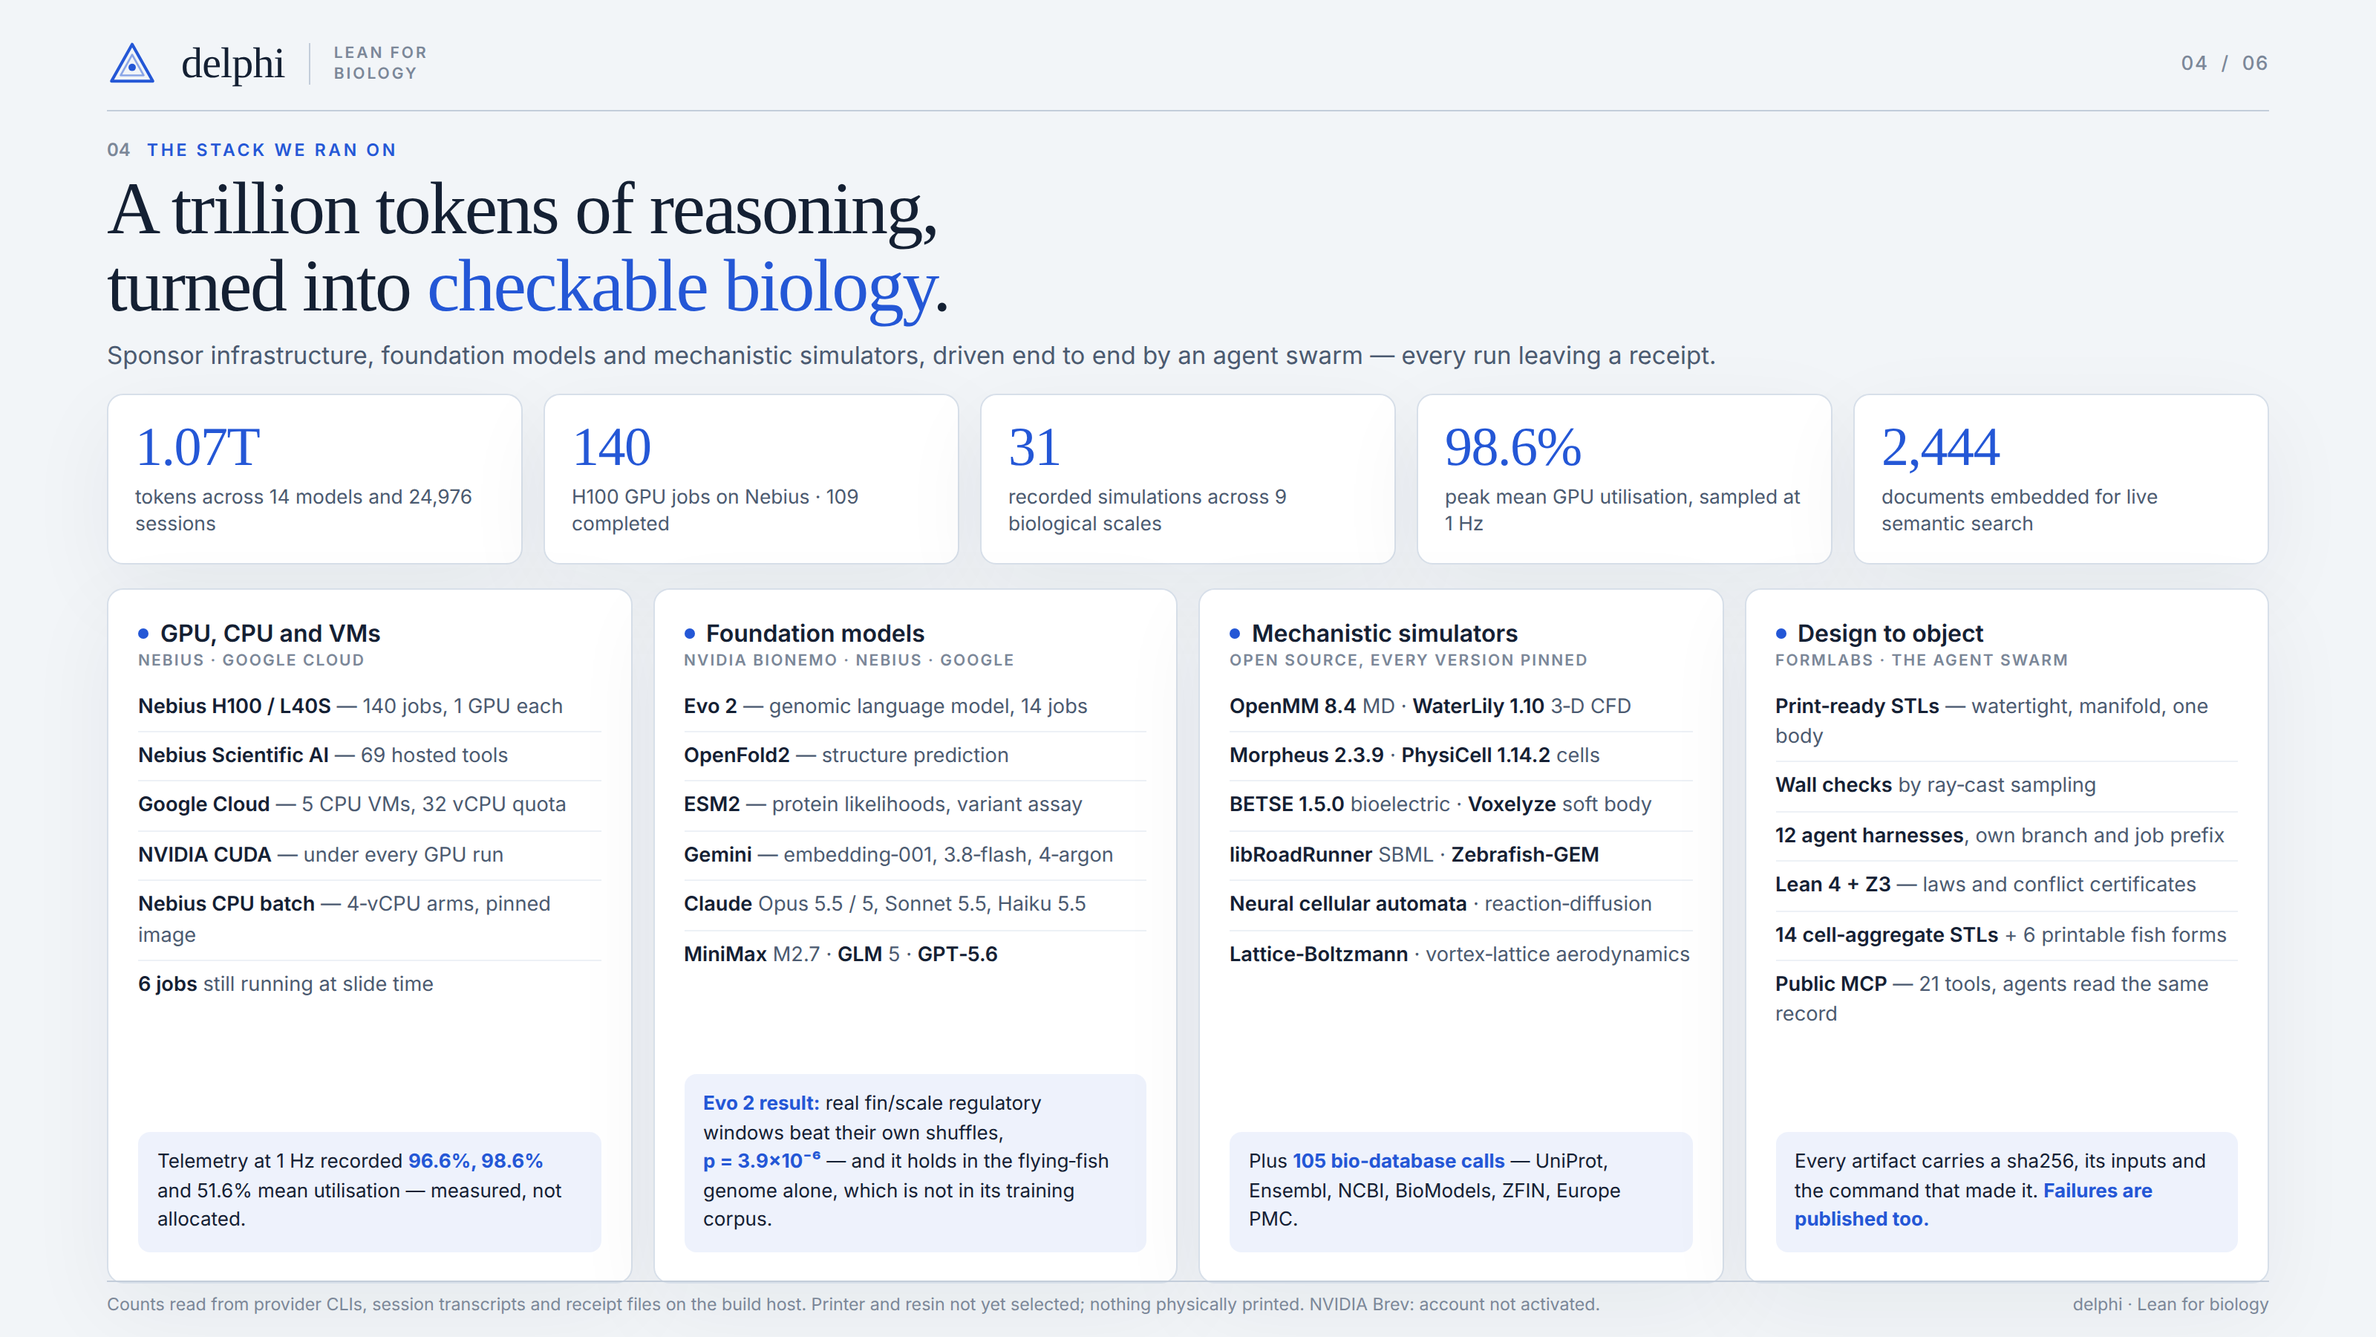
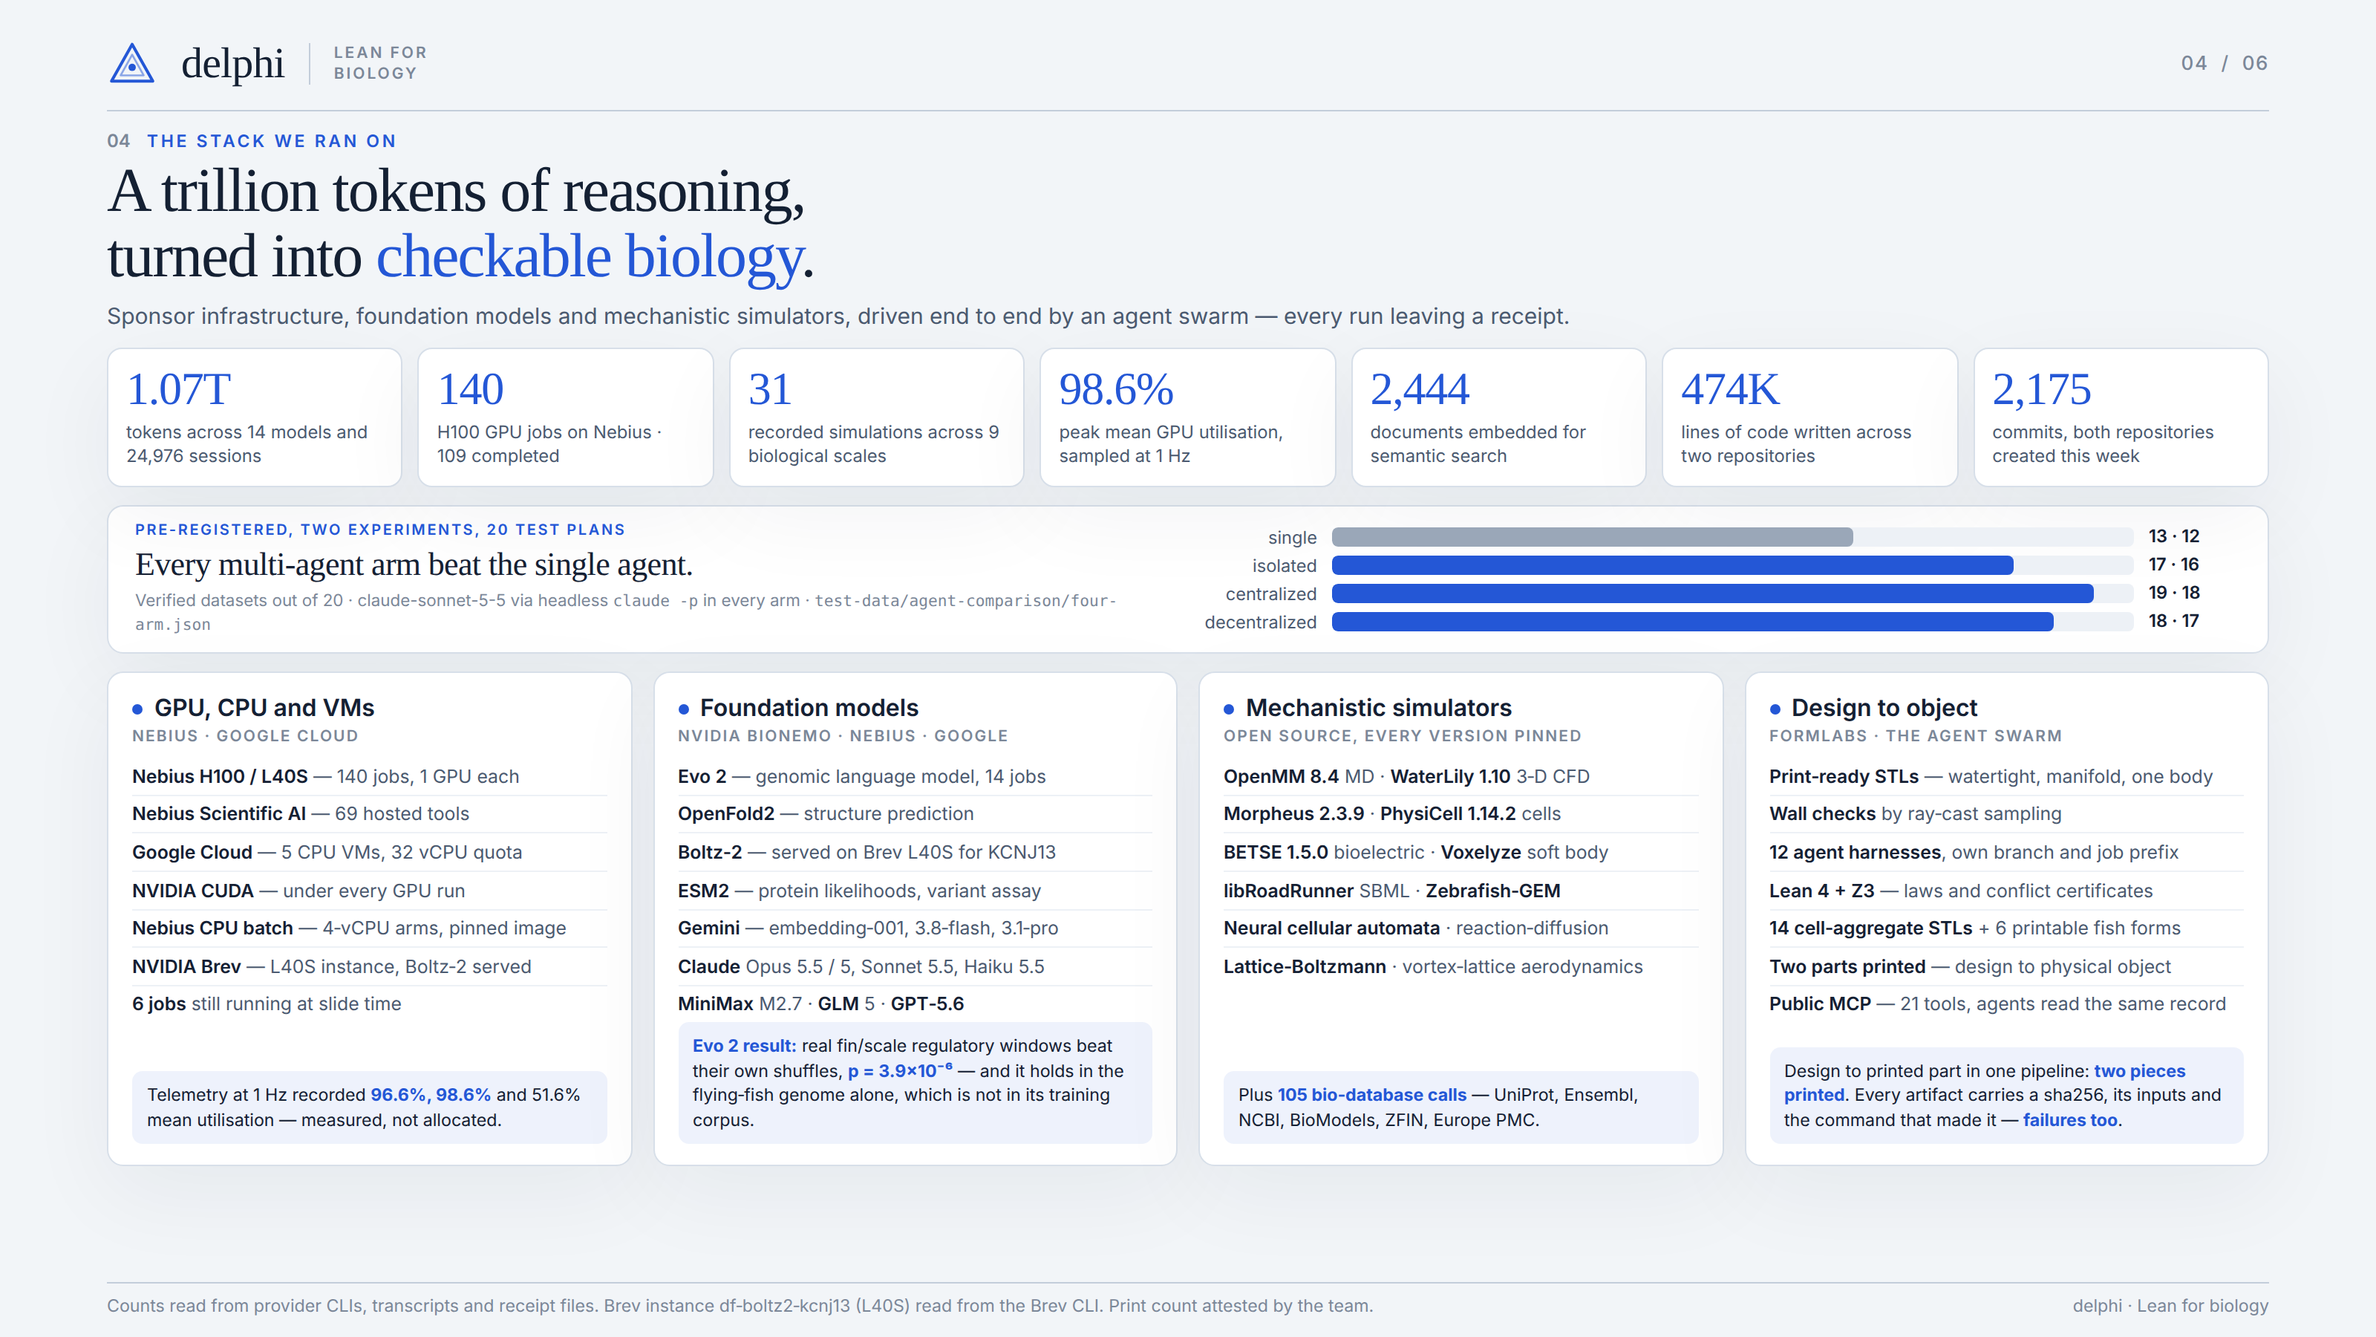
Slide 04: add the swarm-vs-single comparison, code and commit counts, and fix three claims
Adds the band the deck's own pre-registered experiment earns: every multi-agent
arm beat the single agent, 13/12 against 17-19/16-18 verified datasets out of 20,
with the honest rider that the three multi-agent arms are not distinguishable
from each other at n=20. Numbers from test-data/agent-comparison/four-arm.json.

Adds two hero figures: 474K lines of code (git log --all --numstat over source
extensions, 409,190 + 65,372) and 2,175 commits (1,714 + 461), both repositories
created this week.

Three corrections an evidence pass turned up, each of which I had wrong:
- NVIDIA Brev IS in use (RUNNING L40S instance df-boltz2-kcnj13), and Boltz-2 is
  served on it. The slide previously said the account was never activated.
- Two parts were physically printed. The slide previously said nothing was.
- gemini-4-argon has no receipt; the audit models were gemini-3.1-pro-preview and
  gemini-3-pro-image-preview, so the Gemini line now names what actually ran.

Boltz-2 is listed as served rather than as having produced a result, because no
output receipt was found for it.

Rendered and checked at 1600x900: no overflow in either axis.

diff --git a/studio/deck/slide-04-stack.html b/studio/deck/slide-04-stack.html
@@ -12,28 +12,41 @@ font-family:var(--sans);color:var(--ink);margin:auto}
 .div{width:1px;height:28px;background:var(--rule)}
 .tag{font:600 10.5px/1.3 var(--sans);letter-spacing:.14em;color:var(--subtle);text-transform:uppercase}
 .pg{margin-left:auto;font:500 13px/1 var(--sans);color:var(--subtle);letter-spacing:.06em}
-.eyebrow{display:flex;gap:11px;align-items:baseline;margin:20px 0 6px}
+.eyebrow{display:flex;gap:11px;align-items:baseline;margin:14px 0 5px}
 .eyebrow b{font:600 12px/1 var(--sans);color:var(--subtle)}
 .eyebrow span{font:600 11.5px/1 var(--sans);letter-spacing:.16em;text-transform:uppercase;color:var(--blue)}
-h1{font:500 50px/1.05 var(--serif);letter-spacing:-.025em;max-width:30ch}
+h1{font:500 42px/1.05 var(--serif);letter-spacing:-.025em;max-width:30ch}
 h1 em{font-style:normal;color:var(--blue)}
-.sub{font-size:16.5px;color:var(--muted);margin:10px 0 16px;max-width:112ch}
-.hero{display:grid;grid-template-columns:repeat(5,1fr);gap:14px;margin-bottom:16px}
-.h{background:var(--white);border:1px solid var(--grid);border-radius:11px;padding:17px 18px;box-shadow:var(--shadow)}
-.h b{display:block;font:500 37px/1 var(--serif);color:var(--blue);letter-spacing:-.02em}
-.h i{display:block;font-style:normal;font-size:13.2px;color:var(--muted);margin-top:6px;line-height:1.38}
-.cols{display:grid;grid-template-columns:repeat(4,1fr);gap:14px;height:468px}
-.c{background:var(--white);border:1px solid var(--grid);border-radius:11px;padding:20px 20px;box-shadow:var(--shadow);min-width:0;display:flex;flex-direction:column}
+.sub{font-size:15px;color:var(--muted);margin:8px 0 12px;max-width:112ch}
+.hero{display:grid;grid-template-columns:repeat(7,1fr);gap:10px;margin-bottom:12px}
+.h{background:var(--white);border:1px solid var(--grid);border-radius:10px;padding:11px 12px;box-shadow:var(--shadow)}
+.h b{display:block;font:500 31px/1 var(--serif);color:var(--blue);letter-spacing:-.02em}
+.h i{display:block;font-style:normal;font-size:11.9px;color:var(--muted);margin-top:6px;line-height:1.38}
+.cols{display:grid;grid-template-columns:repeat(4,1fr);gap:14px;height:262px}
+.c{background:var(--white);border:1px solid var(--grid);border-radius:11px;padding:14px 16px;box-shadow:var(--shadow);min-width:0;display:flex;flex-direction:column}
 .c h2{font:600 16px/1.2 var(--sans);display:flex;align-items:center;gap:8px;margin-bottom:4px}
 .c h2 i{width:7px;height:7px;border-radius:50%;background:var(--blue);flex:0 0 7px;font-style:normal}
 .c .who{font:600 10.5px/1 var(--sans);letter-spacing:.1em;text-transform:uppercase;color:var(--subtle);margin-bottom:9px}
-.c li{list-style:none;font-size:13.6px;line-height:1.5;color:var(--muted);padding:6px 0;border-top:1px solid #EDF1F6}
+.c li{list-style:none;font-size:12.4px;line-height:1.42;color:var(--muted);padding:3.5px 0;border-top:1px solid #EDF1F6}
 .c li:first-of-type{border-top:0}
 .c li b{color:var(--ink);font-weight:600}
-.win{margin-top:auto;background:var(--blue-soft);border-radius:8px;padding:11px 13px;font-size:13px;line-height:1.5;color:var(--ink)}
+.win{margin-top:auto;background:var(--blue-soft);border-radius:7px;padding:8px 10px;font-size:11.6px;line-height:1.42;color:var(--ink)}
 .win b{color:var(--blue)}
-.foot{position:absolute;left:72px;right:72px;bottom:15px;display:flex;justify-content:space-between;
+.foot{position:absolute;left:72px;right:72px;bottom:14px;display:flex;justify-content:space-between;
 font-size:11.6px;color:var(--subtle);border-top:1px solid var(--rule);padding-top:8px}
+
+.band{display:grid;grid-template-columns:minmax(0,1fr) minmax(0,1.05fr);gap:24px;align-items:center;
+background:var(--white);border:1px solid var(--grid);border-radius:11px;padding:11px 18px;margin-bottom:12px;box-shadow:var(--shadow)}
+.eyebrow2{display:block;font:600 10px/1 var(--sans);letter-spacing:.13em;text-transform:uppercase;color:var(--blue);margin-bottom:5px}
+.bl b{display:block;font:500 22px/1.15 var(--serif);letter-spacing:-.015em;margin-bottom:5px}
+.bn{display:block;font-size:11.2px;color:var(--subtle);line-height:1.4}
+.bn code{font-size:10.6px}
+.bars{display:flex;flex-direction:column;gap:5px}
+.bar{display:grid;grid-template-columns:92px 1fr 62px;align-items:center;gap:10px}
+.bk{font-size:11.8px;color:var(--muted);text-align:right}
+.track{height:13px;background:#EDF1F6;border-radius:4px;overflow:hidden}
+.track i{display:block;height:100%;background:var(--blue);border-radius:4px}
+.bv{font:600 11.8px/1 var(--sans);color:var(--ink)}
 </style></head><body><div class="slide">
  <div class="top">
   <svg class="mark" viewBox="0 0 44 44"><polygon points="22,5 40,37 4,37" fill="none" stroke="#2457D6" stroke-width="2.6" stroke-linejoin="round"/><polygon points="22,14 32,32 12,32" fill="none" stroke="#2457D6" stroke-width="1.7" stroke-linejoin="round" opacity=".5"/><circle cx="22" cy="25" r="3.2" fill="#2457D6"/></svg>
@@ -48,9 +61,23 @@ font-size:11.6px;color:var(--subtle);border-top:1px solid var(--rule);padding-to
   <div class="h"><b>140</b><i>H100 GPU jobs on Nebius · 109 completed</i></div>
   <div class="h"><b>31</b><i>recorded simulations across 9 biological scales</i></div>
   <div class="h"><b>98.6%</b><i>peak mean GPU utilisation, sampled at 1&nbsp;Hz</i></div>
-  <div class="h"><b>2,444</b><i>documents embedded for live semantic search</i></div>
+  <div class="h"><b>2,444</b><i>documents embedded for semantic search</i></div>
+  <div class="h"><b>474K</b><i>lines of code written across two repositories</i></div>
+  <div class="h"><b>2,175</b><i>commits, both repositories created this week</i></div>
  </div>
 
+
+ <div class="band">
+  <div class="bl"><span class="eyebrow2">Pre-registered, two experiments, 20 test plans</span>
+   <b>Every multi-agent arm beat the single agent.</b>
+   <span class="bn">Verified datasets out of 20 · claude-sonnet-5-5 via headless <code>claude -p</code> in every arm · <code>test-data/agent-comparison/four-arm.json</code></span></div>
+  <div class="bars">
+   <div class="bar"><span class="bk">single</span><span class="track"><i style="width:65%;background:#9AA7B8"></i></span><span class="bv">13 · 12</span></div>
+   <div class="bar"><span class="bk">isolated</span><span class="track"><i style="width:85%"></i></span><span class="bv">17 · 16</span></div>
+   <div class="bar"><span class="bk">centralized</span><span class="track"><i style="width:95%"></i></span><span class="bv">19 · 18</span></div>
+   <div class="bar"><span class="bk">decentralized</span><span class="track"><i style="width:90%"></i></span><span class="bv">18 · 17</span></div>
+  </div>
+ </div>
  <div class="cols">
   <div class="c"><h2><i></i>GPU, CPU and VMs</h2><div class="who">Nebius · Google Cloud</div>
    <ul>
@@ -59,6 +86,7 @@ font-size:11.6px;color:var(--subtle);border-top:1px solid var(--rule);padding-to
     <li><b>Google Cloud</b> — 5 CPU VMs, 32 vCPU quota</li>
     <li><b>NVIDIA CUDA</b> — under every GPU run</li>
     <li><b>Nebius CPU batch</b> — 4‑vCPU arms, pinned image</li>
+    <li><b>NVIDIA Brev</b> — L40S instance, Boltz‑2 served</li>
     <li><b>6 jobs</b> still running at slide time</li>
    </ul>
    <div class="win">Telemetry at 1 Hz recorded <b>96.6%, 98.6%</b> and 51.6% mean utilisation — measured, not allocated.</div>
@@ -68,8 +96,9 @@ font-size:11.6px;color:var(--subtle);border-top:1px solid var(--rule);padding-to
    <ul>
     <li><b>Evo 2</b> — genomic language model, 14 jobs</li>
     <li><b>OpenFold2</b> — structure prediction</li>
+    <li><b>Boltz‑2</b> — served on Brev L40S for KCNJ13</li>
     <li><b>ESM2</b> — protein likelihoods, variant assay</li>
-    <li><b>Gemini</b> — embedding‑001, 3.8‑flash, 4‑argon</li>
+    <li><b>Gemini</b> — embedding‑001, 3.8‑flash, 3.1‑pro</li>
     <li><b>Claude</b> Opus 5.5 / 5, Sonnet 5.5, Haiku 5.5</li>
     <li><b>MiniMax</b> M2.7 · <b>GLM</b> 5 · <b>GPT‑5.6</b></li>
    </ul>
@@ -95,11 +124,12 @@ font-size:11.6px;color:var(--subtle);border-top:1px solid var(--rule);padding-to
     <li><b>12 agent harnesses</b>, own branch and job prefix</li>
     <li><b>Lean 4 + Z3</b> — laws and conflict certificates</li>
     <li><b>14 cell‑aggregate STLs</b> + 6 printable fish forms</li>
+    <li><b>Two parts printed</b> — design to physical object</li>
     <li><b>Public MCP</b> — 21 tools, agents read the same record</li>
    </ul>
-   <div class="win">Every artifact carries a sha256, its inputs and the command that made it. <b>Failures are published too.</b></div>
+   <div class="win">Design to printed part in one pipeline: <b>two pieces printed</b>. Every artifact carries a sha256, its inputs and the command that made it — <b>failures too</b>.</div>
   </div>
  </div>
 
- <div class="foot"><span>Counts read from provider CLIs, session transcripts and receipt files on the build host. Printer and resin not yet selected; nothing physically printed. NVIDIA Brev: account not activated.</span><span>delphi · Lean for biology</span></div>
+ <div class="foot"><span>Counts read from provider CLIs, transcripts and receipt files. Brev instance df‑boltz2‑kcnj13 (L40S) read from the Brev CLI. Print count attested by the team.</span><span>delphi · Lean for biology</span></div>
 </div></body></html>

diff --git a/studio/deck/slide-04-stack.md b/studio/deck/slide-04-stack.md
@@ -16,6 +16,29 @@
 | **31** | recorded simulations across 9 biological scales | `site/data/snapshot.json` → `simulation_manifests` |
 | **98.6%** | peak mean GPU utilisation, sampled at 1 Hz | `results/resources/telemetry/ns2d-refine.json`, 181 samples |
 | **2,444** | documents embedded for live semantic search | `gemini-embedding-001`, 49 requests, 0 failed |
+| **474K** | lines of code written across two repositories | `git log --all --numstat` over source extensions: delphi-frontier 409,190 + delphi-evolve 65,372 |
+| **2,175** | commits, both repositories created this week | `git log --all --oneline`: delphi-frontier 1,714 + delphi-evolve 461 |
+
+## Band — swarm vs single agent (the headline comparison)
+
+**Pre-registered, two experiments, 20 test plans.**
+**Every multi-agent arm beat the single agent.**
+
+| Arm | Verified datasets, exp 1 · exp 2 | Cost, exp 1 · exp 2 |
+|---|---|---|
+| single | 13 · 12 | $0.57 · $0.52 |
+| isolated | 17 · 16 | $2.60 · $4.48 |
+| centralized | 19 · 18 | $2.98 · $5.61 |
+| decentralized | 18 (1 fabricated id) · 17 | $3.28 · $6.37 |
+
+`claude-sonnet-5-5` via headless `claude -p` in every arm.
+Source: `test-data/agent-comparison/four-arm.json`.
+
+Every multi-agent arm beat the single agent by at least 4 of 20 verified datasets in both
+experiments, with 0 fabricated identifiers in the final plans. **The three multi-agent arms
+are not distinguishable from one another at n=20** under the pre-registered 2-claim margin —
+centralized versus decentralized shows no difference in either experiment. Say that out loud:
+the win is multi-agent over single, not one topology over another.
 
 ## Column 1 — GPU, CPU and VMs
 **Nebius · Google Cloud**
@@ -25,6 +48,7 @@
 - **Google Cloud** — 5 CPU VMs, 32 vCPU quota (project `scienceclaw26bos-3016`)
 - **NVIDIA CUDA** — under every GPU run
 - **Nebius CPU batch** — 4-vCPU arms, pinned image digest
+- **NVIDIA Brev** — L40S instance `df-boltz2-kcnj13`, org `kganjam-c5d0a6-7kae`, serving Boltz-2
 - **6 jobs** still running at slide time
 
 > Telemetry at 1 Hz recorded **96.6%**, **98.6%** and 51.6% mean utilisation — measured, not allocated.
@@ -34,8 +58,9 @@
 
 - **Evo 2** — genomic language model, 14 jobs (13 completed, 1 failed)
 - **OpenFold2** — structure prediction, 4 predictions (mean pLDDT 41–56, low confidence, labelled)
+- **Boltz-2** — served on a Brev L40S instance for KCNJ13 (instance up; no output receipt yet)
 - **ESM2** — protein likelihoods, Kir2.1 variant-assay agreement pilot with passing controls
-- **Gemini** — `embedding-001`, `3.8-flash`, `4-argon`
+- **Gemini** — `embedding-001`, `3.8-flash`, `3.1-pro-preview`
 - **Claude** — Opus 5.5 / Opus 5 / Sonnet 5.5 / Haiku 5.5
 - **MiniMax** M2.7 · **GLM** 5 · **GPT-5.6**
 
@@ -69,20 +94,23 @@
 - **12 agent harnesses**, each with its own worktree, branch and job prefix
 - **Lean 4 + Z3** — 37 statements, 17/17 mutants rejected, solver conflict certificates
 - **14 cell-aggregate STLs** + 6 printable fish forms
+- **Two parts physically printed** — design to object in one pipeline
 - **Public MCP** — 21 tools, agents read the same record
 
-> Every artifact carries a sha256, its inputs and the command that made it. **Failures are published too.**
+> Design to printed part in one pipeline: **two pieces printed**. Every artifact carries a sha256,
+> its inputs and the command that made it — **failures too**.
 
 ## Footer line
 
 Counts read from provider CLIs, session transcripts and receipt files on the build host.
-Printer and resin not yet selected; nothing physically printed. NVIDIA Brev: account not activated.
+Brev instance `df-boltz2-kcnj13` (L40S) read from the Brev CLI. Print count attested by the
+team; the STL manifests do not yet record the printer and resin used.
 
 ## What we did NOT do — keep these off the slide as claims
 
-- **NVIDIA Brev**: the CLI is installed but the account was never activated. No Brev run exists.
-- **Formlabs**: STLs pass their print gates, but printer and resin are recorded as `unknown`
-  and **nothing was physically printed**.
+- **Formlabs**: two parts were printed (team-attested). The STL manifests still record printer
+  and resin as `unknown`, so the *machine and material* are not yet in the record even though
+  the prints happened. Worth closing before anyone audits the artifact chain.
 - **Nebius Scientific AI**: 69 tools were available; only OpenFold2 and ESM2 have receipts here.
 - No biological validation of anything. No wet-lab experiment. No registered cross-scale calibration.
 - Total provider spend is **unknown** — the billing meter was never queried.
